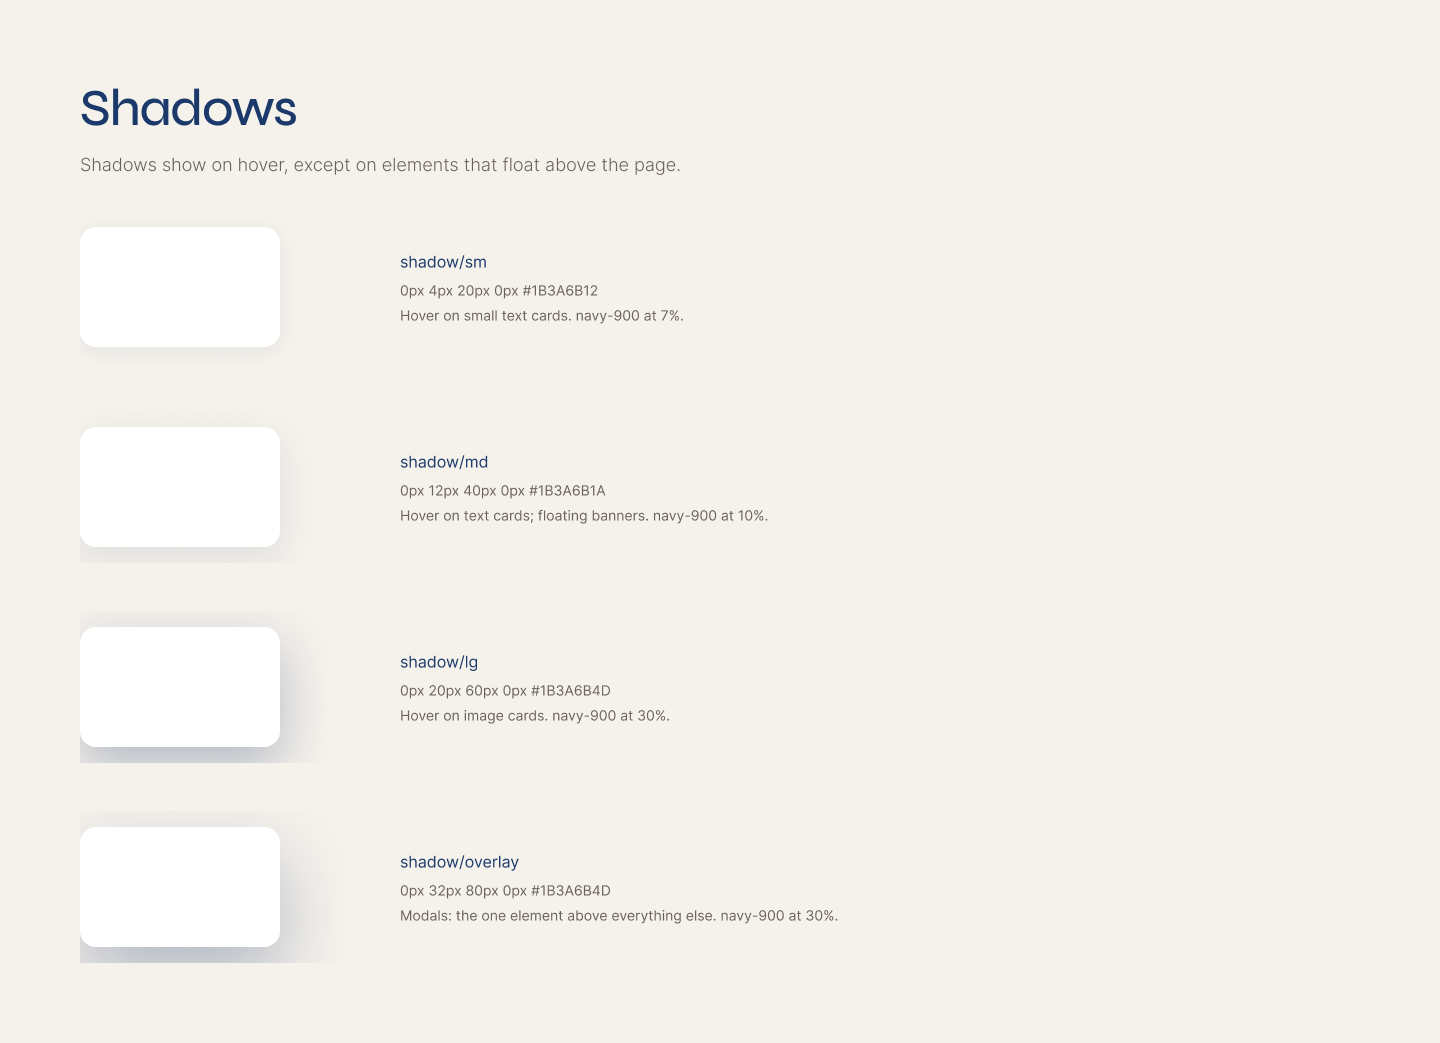
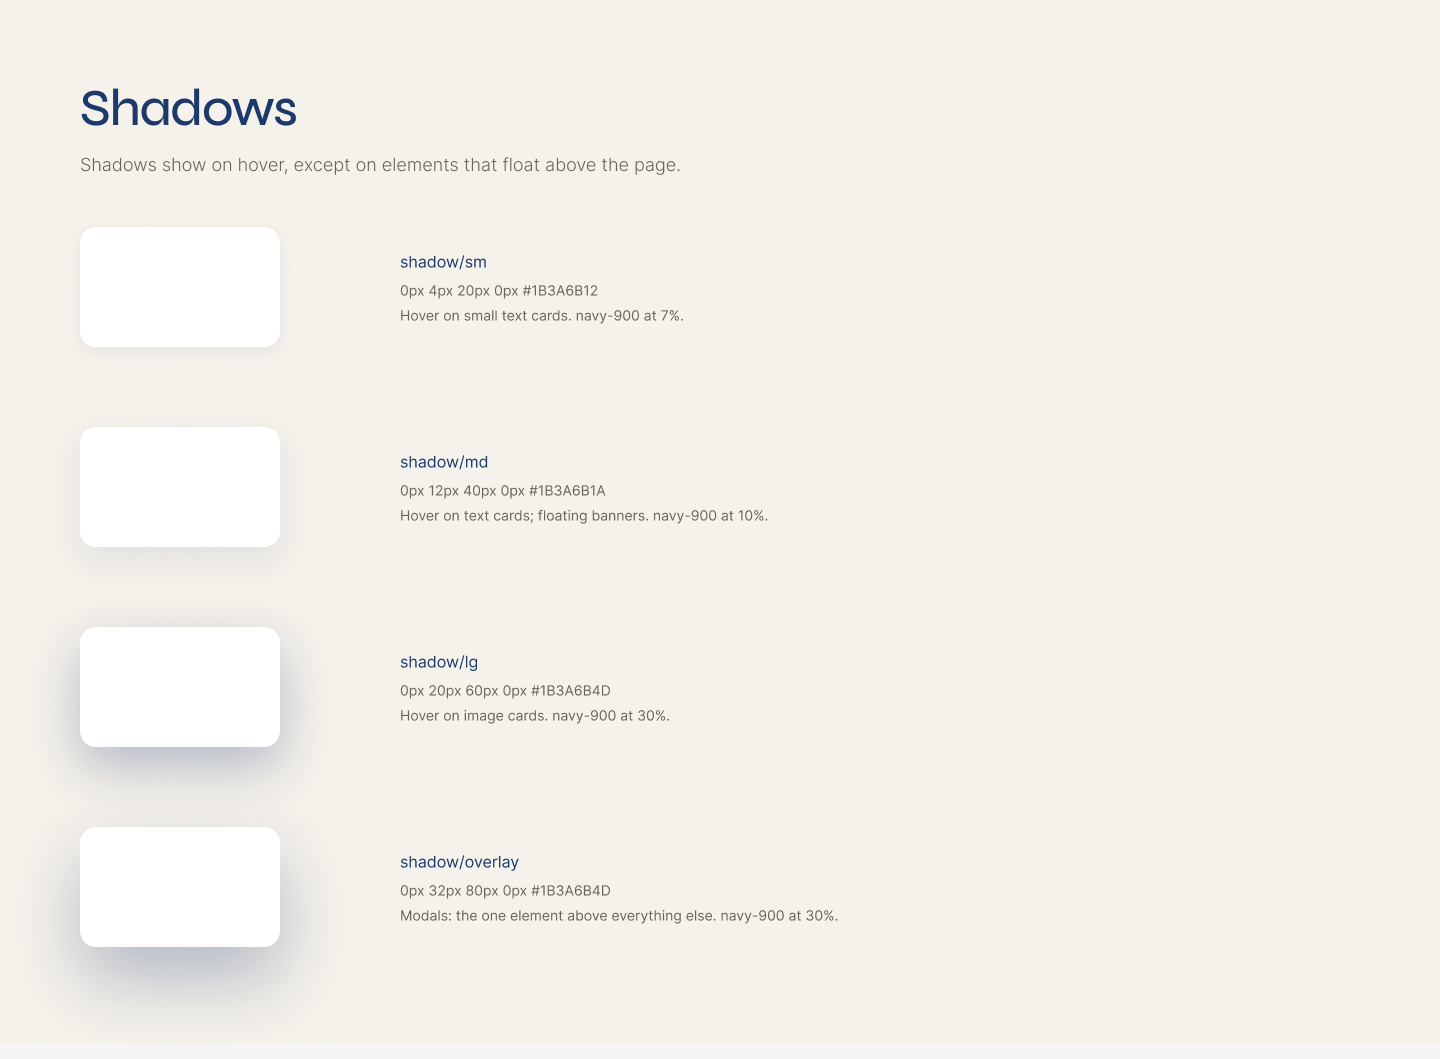
B-012 report: Figma page groups, no clipping, Button set in one column

diff --git a/REPORT.md b/REPORT.md
@@ -1,9 +1,23 @@
-# B-011 · Report
+# B-012 · Report
 
 ## Commits
 
-- `components/button` of `adriadi/fajny-design-system`: **`a7e0927`** "Build the Figma file as documentation (decision 58)", pushed (`eba6f0d..a7e0927`). Not merged.
+- `components/button` of `adriadi/fajny-design-system`: **`e34a9e4`** "Figma pages in groups with separators, no clipping, Button set in one column", pushed (`a7e0927..e34a9e4`). Not merged.
 - `npm run build` passes all 11 steps; `tokens/css/tokens.css` is unchanged.
+
+## The real generated files ran
+
+No size limit got in the way: `use_figma` accepts up to 50,000 characters, and the largest file, `color-collection.js`, has 24,166. I passed each file's full text, unchanged, in the README order:
+
+1. `color-collection.js`
+2. `typography-collection.js`
+3. `foundations-pages.js`
+4. `button-component.js`
+
+The first run of `button-component.js` showed two problems on the Button page, so I fixed the generator, rebuilt, and ran the new file again. The run in Figma is the committed `tokens/figma/button-component.js`.
+
+- **The main components rendered black again.** A bound paint also stores a fallback colour, and Figma draws main components with it. The script left it at the black placeholder. The script now sets each fallback to the colour the variable resolves to on the light surface. The variable stays bound, so instances still switch with their surface.
+- **The page frame was narrower than its content.** It now takes the width of its content.
 
 ## Pages, as read back from Figma
 
@@ -12,46 +26,49 @@
 3. Spacing
 4. Corner radius
 5. Shadows
-6. Button
+6. `---` (your separator, `63:288`, kept and reused)
+7. Button
 
-These six pages are the only ones in the file. "Type check" and "Button check" are deleted, and so is the empty "Page 1" that the file had.
+The scripts own the order and the separators: every run reuses existing separators, adds a missing one and removes an extra empty one. The separator before Advanced will appear once an Advanced page exists. The groups are listed in `scripts/figma-doc-layout.js`, and Button is in Regular.
 
-| Page | Written by | What it shows |
-| --- | --- | --- |
-| Colors | `color-collection.js` | The 25 roles in the README groups (text, surfaces, lines and focus, actions, status). Each group appears on a light and a dark surface, with chip, name, primitive and description. Also how surfaces switch the roles, and the palette marked not for direct use. |
-| Typography | `typography-collection.js` | The 10 roles, `label` included, with what each is for, family, size from 390 to 1280px, line height and letter spacing. Then the specimen at 390 and 1280px, on light and dark. |
-| Spacing | `foundations-pages.js` (new) | 13 fixed steps as bars bound to the variables, plus `space-gutter` and `space-section`, which are fluid and code only. |
-| Corner radius | `foundations-pages.js` | 4 radius variables as boxes bound to them, plus `radius-round`, which is code only, with the README note. |
-| Shadows | `foundations-pages.js` | 4 cards with the `shadow/*` effect styles, value and description. |
-| Button | `button-component.js` | The heading and purpose from `docs/button.md`. Beside the component set, a smaller "All components" section on a light and a dark surface. |
+## Clipping
 
-Each page has a title and a one-sentence subtitle, both from the repo.
+Every frame and section the scripts create has "Clip content" off, the main components and the component set included. A read-back of all seven pages found no frame that clips. Instances are left alone: they follow their main component.
 
-## Button variant IDs
+## Button page
 
-The same before and after: 22 updated in place, 0 created. The set is `41:68`.
+- **New section:** "Component set", with the subtitle "Three variants, one navigation size, every state from the element itself." (the second sentence of `docs/button.md`).
+- **Layout:** the set is one column, in plan order (Primary, Secondary, Link, Navigation, each through its states). Each variant has a label to its left, e.g. "Primary · Main · Focus".
+- **Variant IDs:** unchanged, 22 updated and 0 created; the set is `41:68`.
 
-```
-41:2  41:5  41:8  41:11 41:14 41:17 41:20 41:23 41:26 41:29 41:32
-41:35 41:38 41:41 41:44 41:47 41:50 41:53 41:56 41:59 41:62 41:65
-```
+  ```
+  41:2  41:5  41:8  41:11 41:14 41:17 41:20 41:23 41:26 41:29 41:32
+  41:35 41:38 41:41 41:44 41:47 41:50 41:53 41:56 41:59 41:62 41:65
+  ```
 
-## Worth knowing
+## Typography specimen subtitle
 
-- **The main components rendered black on the Button page.** A main component shows its bound colours only inside a frame that sets the colour modes. So the set now sits in a frame called "Component set", set to Light surface and Desktop. The script keeps that frame on each run. Instances elsewhere are unaffected.
-- **Text added to the repo so the pages could take their text from it:**
-  - a "Colour roles" table in the README (groups, roles, what they're for);
-  - the sentence under "States" in `docs/button.md`: "Every variant in every state, on a light and a dark surface.";
-  - a `$description` on the radius group in `dimension.tokens.json`.
-- **Tokens Studio recreated the empty `shadow` collection**, and the colour script deleted it again, as it does on every run.
-- **How the scripts ran:** I ran shortened copies of the generated scripts in Figma through the MCP. They do the same thing as the generated files.
+The README has a new "Typography" section with a "Specimen" line, and `build-figma-type.js` reads the subtitle from it. If the line is missing, the build fails.
 
-Screenshots: `figma-colors.png`, `figma-typography.png`, `figma-spacing.png`, `figma-radius.png`, `figma-shadows.png`, `figma-button.png`.
+## Screenshots
+
+- `figma-button.png`: the Button page. The labels next to the set are missing from this screenshot only. The set sits on top of its placeholder as a separate frame, and the screenshot of the page frame includes the set but drops the labels. On the canvas they're there.
+- `figma-button-set.png`: the set's frame on its own, with the labels.
+- `figma-shadows.png`: the Shadows page. The shadows are no longer cut off at the sample's edge.
+
+The other pages kept their layout; only clipping changed.
+
+Worth knowing: on the Shadows page, the `shadow/overlay` sample's shadow now reaches past the bottom of the page frame, because nothing clips it any more.
 
 ## Questions
 
-1. **Specimen subtitle.** The Typography specimen subtitle ("Real portfolio text in every role, on a 390px and a 1280px screen, on a light and a dark surface.") is a constant in `build-figma-type.js`. No repo document has that sentence yet; every other subtitle comes from a token description or a doc.
-   - A: Keep it in the script.
-   - B: Add the sentence to the README Typography section and have the script read it from there.
+1. **Fixed labels in the scripts.** Section titles and labels are still set in the scripts, not read from a document. These are "Surfaces switch the roles", "Palette", "Specimen", "Component set", "All components", the Typography table headers, "(code only)" and "n/a". Every sentence (the subtitles and descriptions) comes from the repo.
+   - A: Keep them in the scripts as fixed names of the page structure. Decision 58 already names "All components".
+   - B: Move them into a repo document (e.g. a "Figma pages" table in the README) and have the scripts read them.
 
-   **Recommendation: B.** Every subtitle then comes from a document, the same way as on the other pages.
+   **Recommendation: A.** They're names of the page structure, not explanations, and a document kept only for them would duplicate the scripts.
+2. **"Component set" title size.** It uses the smaller subheading style, the same as "All components", because both sit under the page title "Button".
+   - A: Keep it.
+   - B: Use the larger heading style, the same as the page title.
+
+   **Recommendation: A.** The two sections sit side by side and match.
